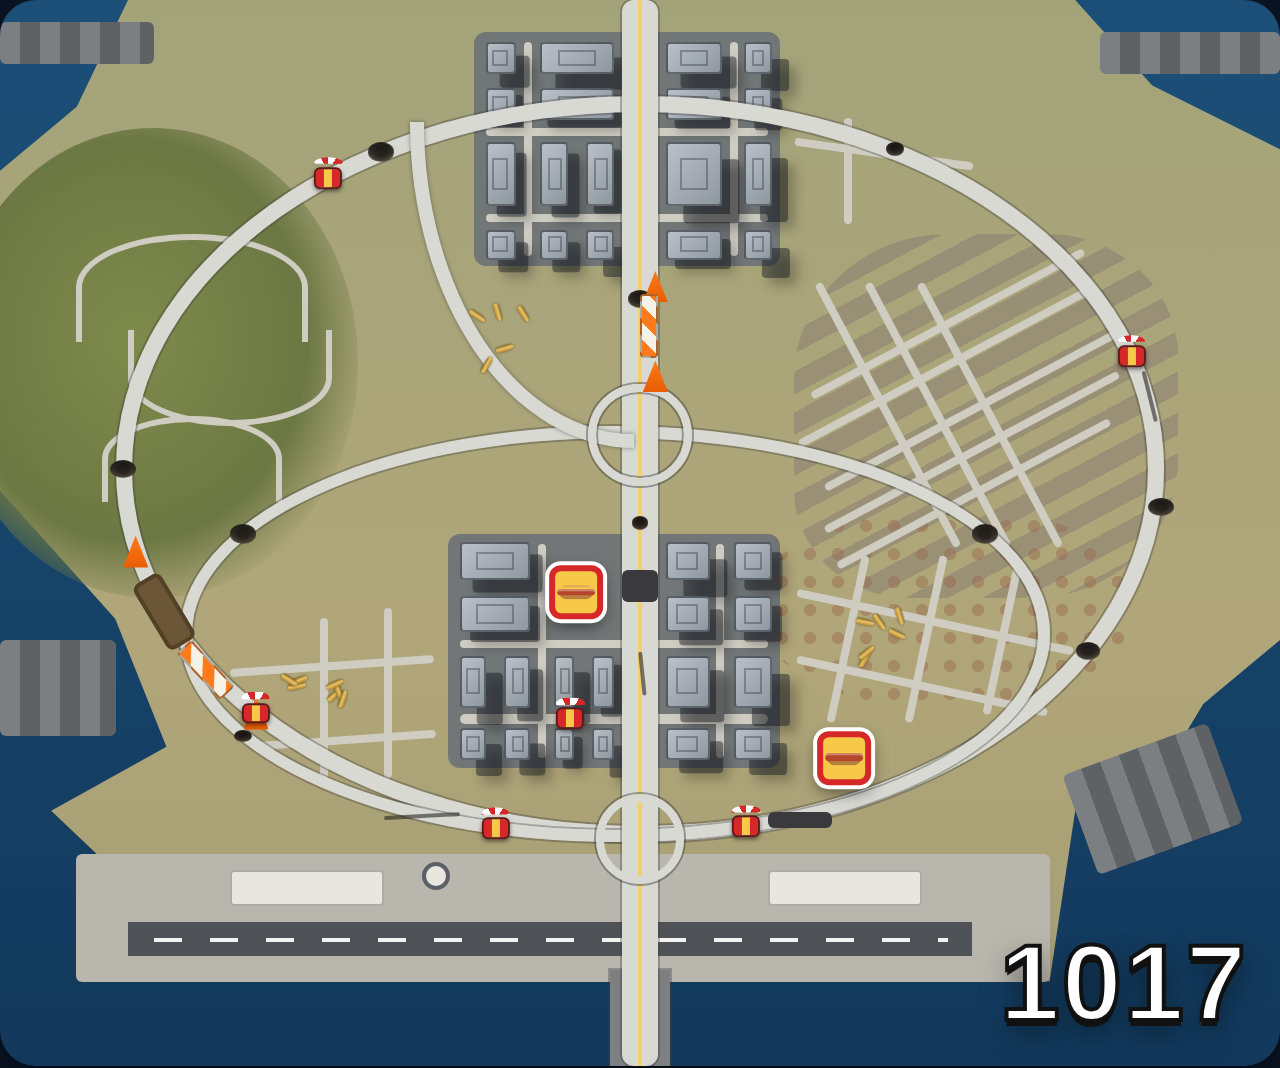
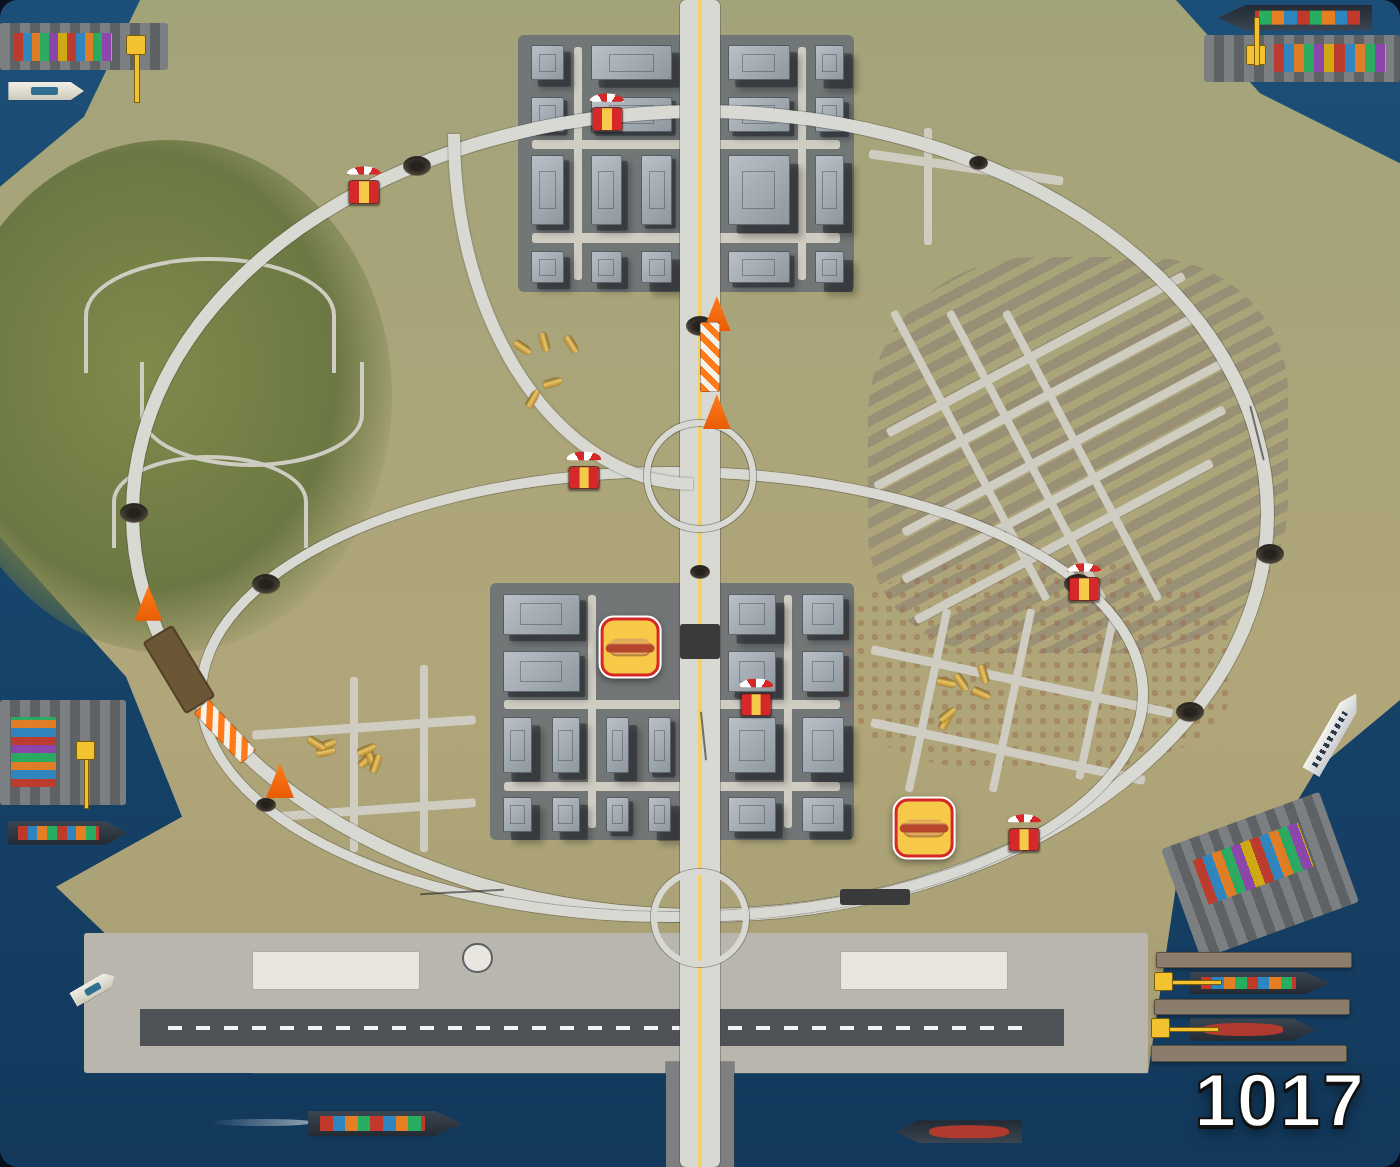
Enlarge the 1017 inner city; add docks and ships
The plate grows to 1400px wide (still shrinking to fit small screens);
ring, flyover, interchange and hill-street borders and the area-code label
scale with it. The four yards become working docks: a three-pier harbor on
the south-east bay with cranes, containers, a container ship and a tanker;
cranes, containers and moored ships at the north-east, north-west and west
yards; and ships at sea, a fishing boat and a ferry around the coast.

Claude-Session: https://claude.ai/code/session_01FagBtygwPmHUod4bPZTnD1

diff --git a/1017-inner-city.html b/1017-inner-city.html
@@ -33,7 +33,7 @@
   p.note { color: #8fa5c0; font-size: 13px; margin-bottom: 16px; }
 
   /* ---- the plate: open water ---- */
-  .map { position: relative; width: min(92vw, 640px); aspect-ratio: 6 / 5;
+  .map { position: relative; width: min(96vw, 1400px); aspect-ratio: 6 / 5;   /* large: room for detail; shrinks to fit small screens */
          background: linear-gradient(180deg, #1c4f78, #12395c);
          border-radius: 18px; overflow: hidden;
          box-shadow: 0 18px 50px rgba(0,0,0,.55); }
@@ -120,19 +120,19 @@
   .bridge    { left: 47.6%; top: 91%; width: 4.8%; height: 9%; z-index: 2; background: #7d7f80; border-radius: 0; }  /* deck rails */
 
   /* the loops */
-  .perimeter  { left: 9%;  top: 9%;  width: 82%; height: 70%; border-width: 8px; }   /* The Perimeter */
-  .inner-loop { left: 14%; top: 40%; width: 68%; height: 39%; border-width: 6px; }   /* The Inner Loop — shares the south run */
+  .perimeter  { left: 9%;  top: 9%;  width: 82%; height: 70%; border-width: clamp(6px, .9vw, 16px); }   /* The Perimeter */
+  .inner-loop { left: 14%; top: 40%; width: 68%; height: 39%; border-width: clamp(5px, .7vw, 12px); }   /* The Inner Loop — shares the south run */
 
   /* the flyover: off the hill, curls down into the interchange */
   .flyover { position: absolute; left: 32%; top: 11.5%; width: 17.5%; height: 30.5%; z-index: 3;
-             border: 7px solid #d9d9d4; border-top: none; border-right: none;
+             border: clamp(5px, .8vw, 14px) solid #d9d9d4; border-top: none; border-right: none;
              border-bottom-left-radius: 100% 100%;
              filter: drop-shadow(0 0 1px rgba(60,60,60,.6)); }
   .interchange { position: absolute; left: 46%; top: 36%; width: 8%; aspect-ratio: 1; z-index: 4;
-                 border: 4px solid #d9d9d4; border-radius: 50%;
+                 border: clamp(3px, .45vw, 8px) solid #d9d9d4; border-radius: 50%;
                  box-shadow: 0 0 0 1px rgba(60,60,60,.45), inset 0 0 0 1px rgba(60,60,60,.45); }  /* the central stack */
   .south-stack { position: absolute; left: 46.5%; top: 74.5%; width: 7%; aspect-ratio: 1; z-index: 4;
-                 border: 4px solid #d9d9d4; border-radius: 50%;
+                 border: clamp(3px, .45vw, 8px) solid #d9d9d4; border-radius: 50%;
                  box-shadow: 0 0 0 1px rgba(60,60,60,.45); }        /* spine × the loops' south run */
 
   /* the east grid — apartment streets, tilted with the blocks */
@@ -146,9 +146,9 @@
   .grid-7 { left: 72%; top: 52%; width: .6%; height: 16%; transform: rotate(12deg); }
   /* the hill — switchback streets */
   .hill-1 { position: absolute; left: 6%;  top: 22%; width: 18%; height: 10%; z-index: 1;
-            border: 3px solid #cfccc2; border-bottom: none; border-radius: 50% 50% 0 0; }
+            border: clamp(2px, .3vw, 5px) solid #cfccc2; border-bottom: none; border-radius: 50% 50% 0 0; }
   .hill-2 { position: absolute; left: 10%; top: 31%; width: 16%; height: 9%;  z-index: 1;
-            border: 3px solid #cfccc2; border-top: none; border-radius: 0 0 50% 50%; }
+            border: clamp(2px, .3vw, 5px) solid #cfccc2; border-top: none; border-radius: 0 0 50% 50%; }
   /* downtown cross streets */
   .dt-1 { left: 38%; top: 12%; width: 22%; }
   .dt-2 { left: 36%; top: 60%; width: 24%; }
@@ -178,7 +178,7 @@
   .sw-4 { left: 30%; top: 57%; width: .6%; height: 16%; }
   /* the hill keeps its switchbacks — no grid on the mountain, just one more bend down to the Perimeter */
   .hill-3 { position: absolute; left: 8%; top: 39%; width: 14%; height: 8%; z-index: 1;
-            border: 3px solid #cfccc2; border-bottom: none; border-radius: 50% 50% 0 0; }
+            border: clamp(2px, .3vw, 5px) solid #cfccc2; border-bottom: none; border-radius: 50% 50% 0 0; }
 
   /* ---- the airport: apron, runway, terminals ---- */
   .apron { position: absolute; left: 6%; top: 80%; width: 76%; height: 12%;
@@ -201,9 +201,68 @@
   .pier-w  { left: 0;   top: 60%; width: 9%;  height: 9%; }      /* the west harbor */
   .pier-se { left: 84%; top: 70%; width: 12%; height: 10%; transform: rotate(-20deg); }
 
+  /* ============================================================
+     DOCKS + SHIPS — the four yards become working docks: piers,
+     gantry cranes, container stacks, ships alongside, more at sea.
+     ============================================================ */
+  .pier-deck { position: absolute; z-index: 1; background: #8a7d6b; border: 1px solid rgba(40,32,24,.5);
+               border-radius: 2px; box-shadow: 0 2px 4px rgba(0,0,0,.35); }
+  .containers { position: absolute; z-index: 2; border-radius: 1px; opacity: .95;
+                background: repeating-linear-gradient(90deg, #c0392b 0 9%, #2e86c1 9% 18%, #e67e22 18% 27%,
+                            #27ae60 27% 36%, #8e44ad 36% 45%, #d4ac0d 45% 54%); }
+  .containers.v { background: repeating-linear-gradient(0deg, #c0392b 0 12%, #2e86c1 12% 24%, #e67e22 24% 36%,
+                            #27ae60 36% 48%, #8e44ad 48% 60%); }
+  .crane { position: absolute; z-index: 3; width: 1.4%; aspect-ratio: 1; background: #f2c230;
+           border: 1px solid #7a5d0a; border-radius: 2px; }
+  .crane::after { content: ""; position: absolute; left: 40%; top: -170%; width: 20%; height: 270%;
+                  background: #f2c230; border: 1px solid #7a5d0a; }                   /* boom north */
+  .crane.east::after { left: 100%; top: 40%; width: 270%; height: 20%; }
+  .crane.west::after { left: auto; right: 100%; top: 40%; width: 270%; height: 20%; }
+  .crane.south::after { top: 100%; }
+  .ship { position: absolute; z-index: 2; background: linear-gradient(180deg, #3b4652, #232a33);
+          clip-path: polygon(0 0, 82% 0, 100% 50%, 82% 100%, 0 100%);
+          box-shadow: 0 0 0 1px rgba(0,0,0,.4); }
+  .ship::after { content: ""; position: absolute; left: 8%; right: 24%; top: 22%; bottom: 22%;
+                 background: repeating-linear-gradient(90deg, #c0392b 0 12%, #2e86c1 12% 24%, #e67e22 24% 36%, #27ae60 36% 48%); }
+  .ship.tanker::after { background: #b03a2e; border-radius: 40%; left: 10%; right: 26%; }
+  .ship.ferry { background: linear-gradient(180deg, #f4f4f0, #c9ccd0); }
+  .ship.ferry::after { background: repeating-linear-gradient(90deg, #2b3a4a 0 6%, transparent 6% 12%); top: 35%; bottom: 35%; }
+  .ship.boat { background: linear-gradient(180deg, #f1efe6, #cfcabb); }
+  .ship.boat::after { background: #2f6f8f; left: 30%; right: 34%; top: 28%; bottom: 28%; border-radius: 2px; }
+  .wake { position: absolute; z-index: 1; height: .6%; border-radius: 50%;
+          background: linear-gradient(90deg, rgba(255,255,255,0), rgba(255,255,255,.55)); }
+
+  /* south-east harbor — the big one: three piers off the bay shore */
+  .pier-se-1 { left: 82.6%; top: 81.6%; width: 14%; height: 1.4%; }
+  .pier-se-2 { left: 82.4%; top: 85.6%; width: 14%; height: 1.4%; }
+  .pier-se-3 { left: 82.2%; top: 89.6%; width: 14%; height: 1.4%; }
+  .crane-se-1 { left: 82.4%; top: 83.3%; }
+  .crane-se-2 { left: 82.2%; top: 87.3%; }
+  .containers-se { left: 85.5%; top: 72%; width: 8%; height: 4%; transform: rotate(-20deg); }   /* stacked on the yard */
+  .ship-se-1 { left: 85%;   top: 83.3%; width: 10%; height: 1.9%; }                          /* container ship */
+  .ship-se-2 { left: 85%;   top: 87.3%; width: 9%;  height: 1.9%; }                          /* tanker */
+  /* north-east — ship alongside the yard, crane over it */
+  .crane-ne { left: 89%; top: 3.9%; }
+  .containers-ne { left: 91%; top: 3.8%; width: 8%; height: 2.4%; }
+  .ship-ne { left: 87%; top: .4%; width: 11%; height: 2.2%; transform: rotate(180deg); }      /* bow west */
+  /* north-west — a work boat at the yard */
+  .containers-nw { left: 1%; top: 2.8%; width: 7%; height: 2.4%; }
+  .crane-nw { left: 9%; top: 3%; }
+  .ship-nw { left: .6%; top: 7%; width: 5.4%; height: 1.6%; }
+  /* west harbor — crane on the yard, ship moored below it */
+  .containers-w { left: .8%; top: 61.5%; width: 3.2%; height: 6%; }
+  .crane-w { left: 5.4%; top: 63.5%; }
+  .ship-w { left: .6%; top: 70.4%; width: 8.5%; height: 2%; }
+  /* at sea */
+  .ship-sea-1 { left: 22%; top: 95.2%; width: 11%; height: 2.2%; }                            /* heading east past the airport */
+  .wake-sea-1 { left: 15%; top: 95.9%; width: 7.5%; }
+  .ship-sea-2 { left: 64%; top: 96%;   width: 9%;  height: 2%; transform: rotate(180deg); }    /* tanker heading west */
+  .ship-sea-3 { left: 5%;  top: 84%;   width: 3.4%; height: 1.4%; transform: rotate(-30deg); }  /* fishing boat in the south-west bay */
+  .ship-sea-4 { left: 92%; top: 62%;   width: 6.5%; height: 1.7%; transform: rotate(-60deg); } /* ferry out of the east bay */
+
   /* ---- the marking: area code ---- */
   .code { position: absolute; right: 2.5%; bottom: 2%; z-index: 5;                 /* out in the bay, off the towers */
-          font-weight: 900; color: #fff; letter-spacing: 1px; font-size: clamp(28px, 8vw, 54px);
+          font-weight: 900; color: #fff; letter-spacing: 1px; font-size: clamp(28px, 5vw, 110px);
           -webkit-text-stroke: 2px #111; text-shadow: 0 3px 0 #111, 0 6px 14px rgba(0,0,0,.5); }
 </style>
 <link rel="stylesheet" href="1017-inner-city-wear-and-tear.css">
@@ -231,6 +290,30 @@
     <div class="pier pier-ne"></div>
     <div class="pier pier-w"></div>
     <div class="pier pier-se"></div>
+
+    <!-- docks + ships -->
+    <div class="pier-deck pier-se-1"></div>
+    <div class="pier-deck pier-se-2"></div>
+    <div class="pier-deck pier-se-3"></div>
+    <div class="containers containers-se"></div>
+    <div class="crane east crane-se-1"></div>
+    <div class="crane east crane-se-2"></div>
+    <div class="ship ship-se-1"></div>
+    <div class="ship tanker ship-se-2"></div>
+    <div class="containers containers-ne"></div>
+    <div class="crane crane-ne"></div>
+    <div class="ship ship-ne"></div>
+    <div class="containers containers-nw"></div>
+    <div class="crane south crane-nw"></div>
+    <div class="ship boat ship-nw"></div>
+    <div class="containers v containers-w"></div>
+    <div class="crane south crane-w"></div>
+    <div class="ship ship-w"></div>
+    <div class="wake wake-sea-1"></div>
+    <div class="ship ship-sea-1"></div>
+    <div class="ship tanker ship-sea-2"></div>
+    <div class="ship boat ship-sea-3"></div>
+    <div class="ship ferry ship-sea-4"></div>
 
     <!-- streets -->
     <div class="street grid-1"></div>
